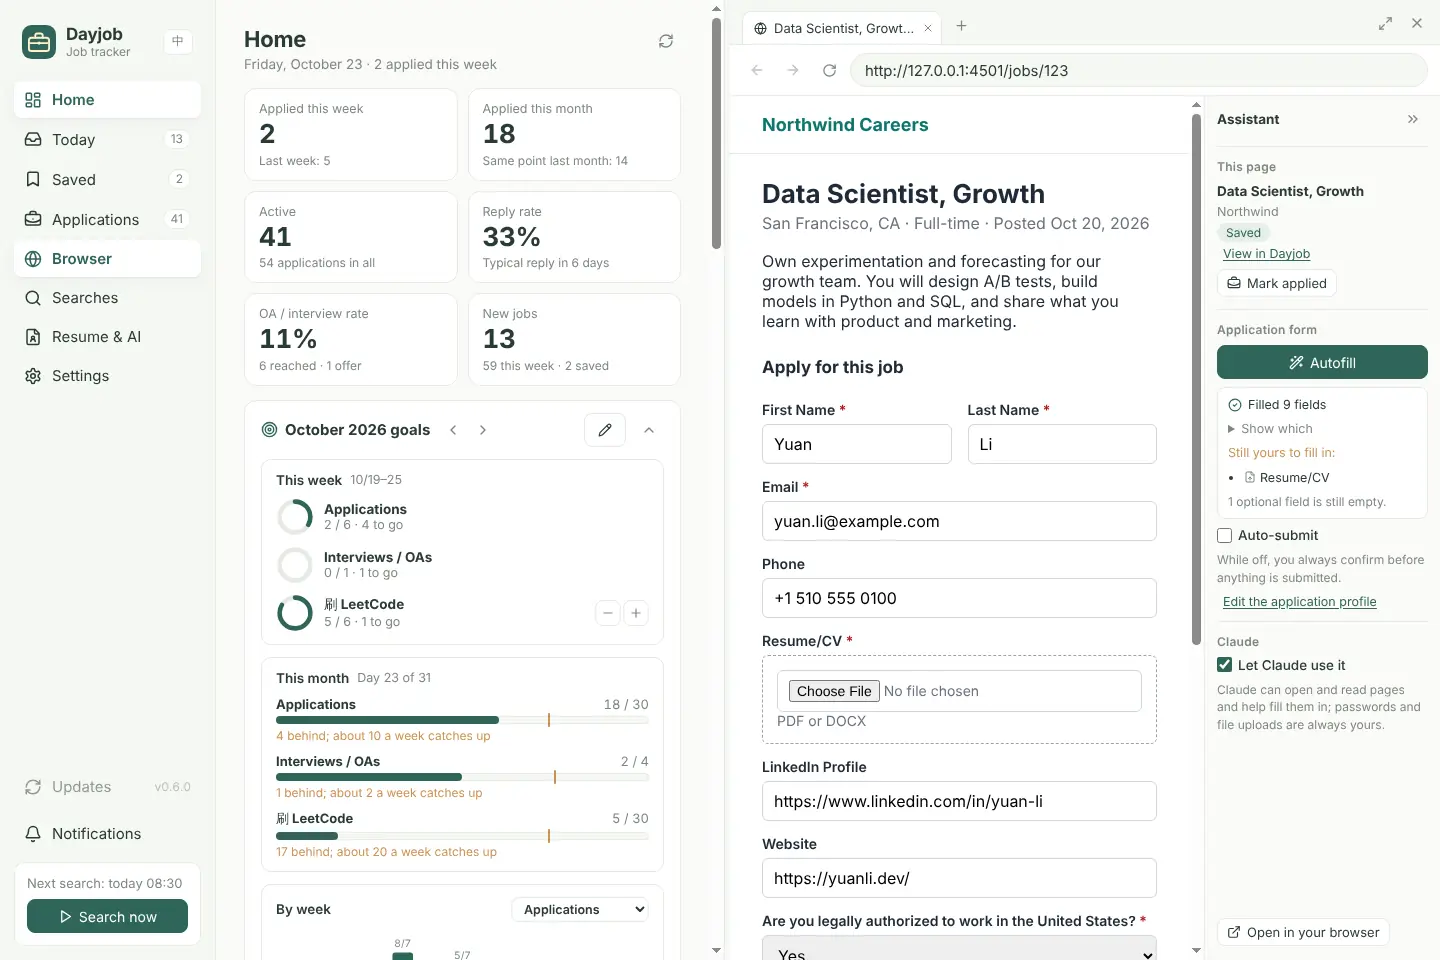
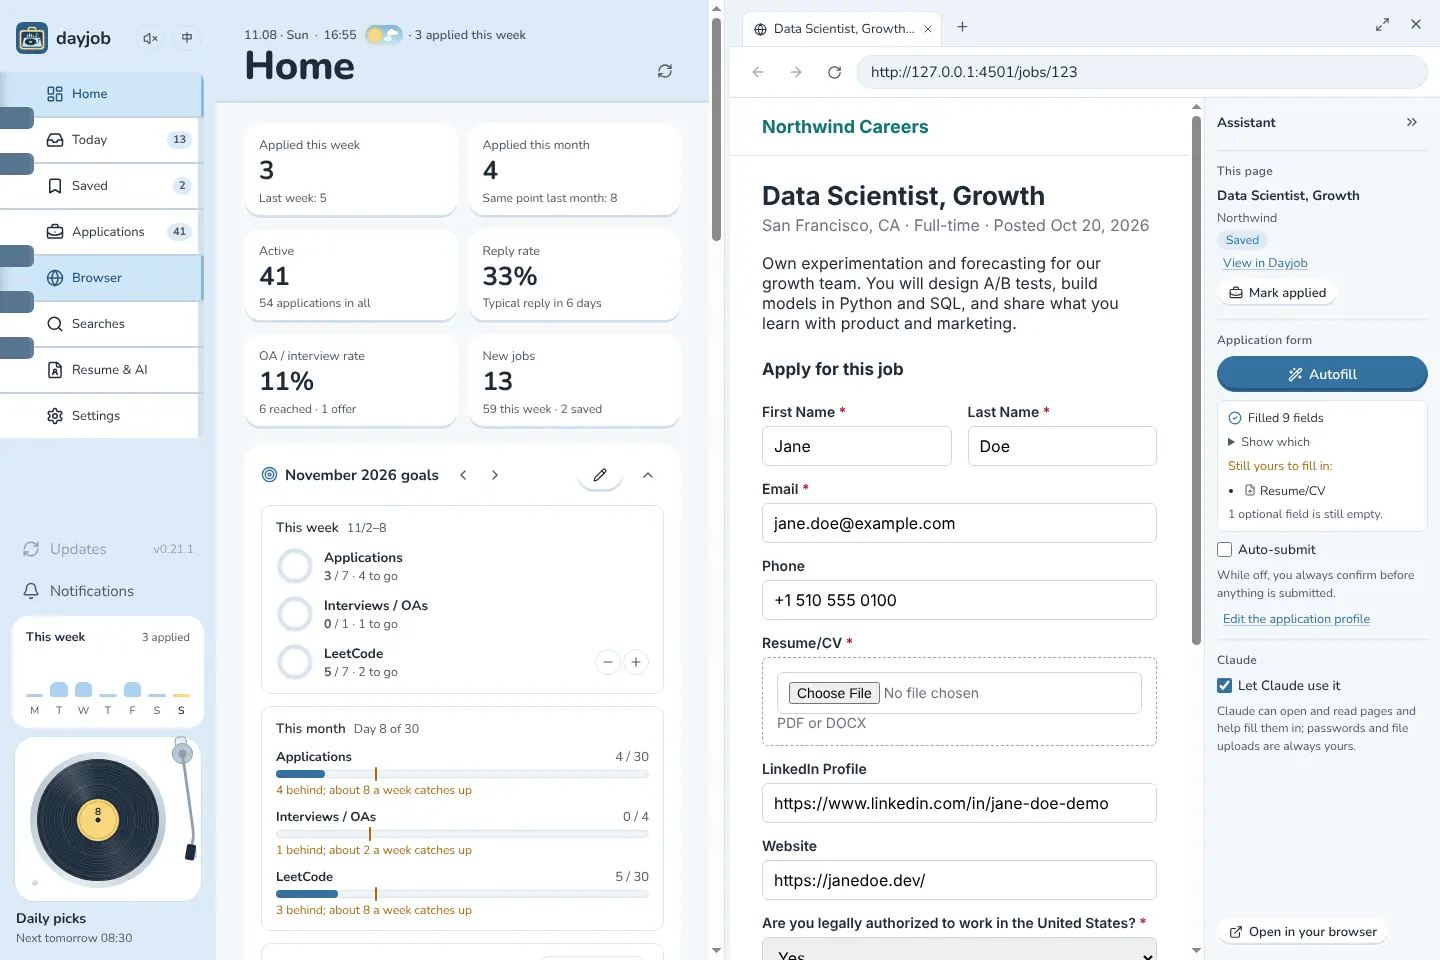
Refresh the README screenshots; no sideways scrollbar beside the browser (v0.21.2)
- Retake all nine README screenshots (Today, night, Applications, Home, the
  browser; Chinese and English) from the current desktop app with demo data.
- The header band reaches 100vw to the right; beside the browser the page is
  its own scroll box, so it showed a horizontal scrollbar. Hide it there.

diff --git a/src/dayjob/dayjob.css b/src/dayjob/dayjob.css
@@ -422,7 +422,7 @@ button.run-head[aria-expanded="true"] .run-chev { transform: rotate(180deg); }
 /* Views size themselves to the space they get, not the window. */
 .main-view { container: view / inline-size; }
 .main.with-browser { padding: 0; height: 100vh; display: flex; overflow: hidden; }
-.main.with-browser .main-view { flex: 1; min-width: 0; overflow-y: auto; padding: 26px 28px 28px; }
+.main.with-browser .main-view { flex: 1; min-width: 0; overflow-x: hidden; overflow-y: auto; padding: 26px 28px 28px; }
 .main.with-browser.wide .main-view { display: none; }
 .pane-resizer { width: 6px; flex-shrink: 0; cursor: col-resize; background: var(--soft); border-left: 1px solid var(--line); }
 .pane-resizer:hover, .pane-resizer:focus-visible { background: var(--line-strong); outline: none; }

diff --git a/src/dayjob/groove/keys.css b/src/dayjob/groove/keys.css
@@ -18,7 +18,7 @@
   --row-on-lip: #2A2520;
 }
 
-/* The lid: the band reaches from the sidebar to the window's right edge, whatever width the page itself is capped at. */
+/* The lid: the band reaches from the sidebar to the window's right edge (or to the browser beside the page), whatever width the page itself is capped at. */
 .main { overflow-x: clip; }
 .view-header { isolation: isolate; padding-bottom: 16px; margin-bottom: 20px; }
 .view-header::before { content: ""; position: absolute; z-index: -1; top: -26px; bottom: 0; left: -28px; right: -100vw;

diff --git a/README.en.md b/README.en.md
@@ -8,7 +8,7 @@ Dayjob is the job-search mode of [Daylight](https://github.com/Key07211/daylight
 
 ![Today: AI match scores, posting dates and the job details](docs/media/feed-en.webp)
 
-> The companies, jobs and resume in the screenshots are made-up data from `scripts/seed-demo.mjs`. The interface follows the system's light or dark theme, or a theme you pick in Settings.
+> The companies, jobs, applications and resume in the screenshots are made-up demo data (`scripts/seed-demo.mjs` makes a set). By default the interface turns from day to night by the clock; it can also follow the system or stay on one theme you pick in Settings.
 
 ## Features
 
